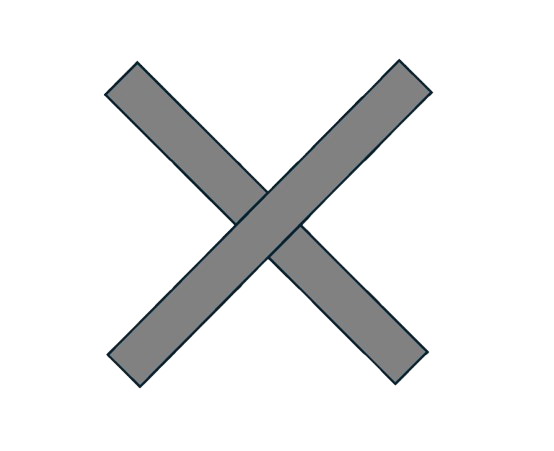
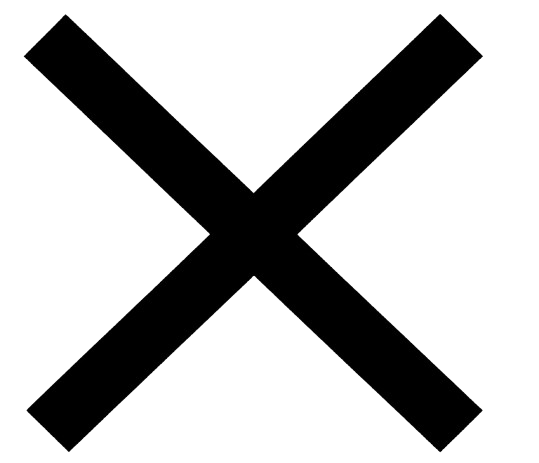
Changes background of tile_miss and fixes size of some labels

Changed region(s): [[0.0297, 0.031, 0.8905, 0.9933]]

diff --git a/src/main/java/com/matti/battleship/BattleShipApp.java b/src/main/java/com/matti/battleship/BattleShipApp.java
@@ -447,12 +447,12 @@ public class BattleShipApp extends Application {
     buttonGoBackR7.size(root7LoadingScreen, 0.07, 0.1);
 
     labelWaitingForOtherPlayerToJoinR7.position(root7LoadingScreen, 0, -0.2);
-    labelWaitingForOtherPlayerToJoinR7.fontsize(root7LoadingScreen, 0.05);
+    labelWaitingForOtherPlayerToJoinR7.fontsize(root7LoadingScreen, 0.035);
     labelWaitingForOtherPlayerToJoinR7.size(root7LoadingScreen, 0.7, 0.2);
     labelWaitingForOtherPlayerToJoinR7.setAlignment(Pos.CENTER);
 
     labelFunnyInfosR7.position(root7LoadingScreen, 0, 0);
-    labelFunnyInfosR7.fontsize(root7LoadingScreen, 0.03);
+    labelFunnyInfosR7.fontsize(root7LoadingScreen, 0.02);
     labelFunnyInfosR7.size(root7LoadingScreen, 0.4, 0.2);
     labelFunnyInfosR7.setAlignment(Pos.CENTER);
 
